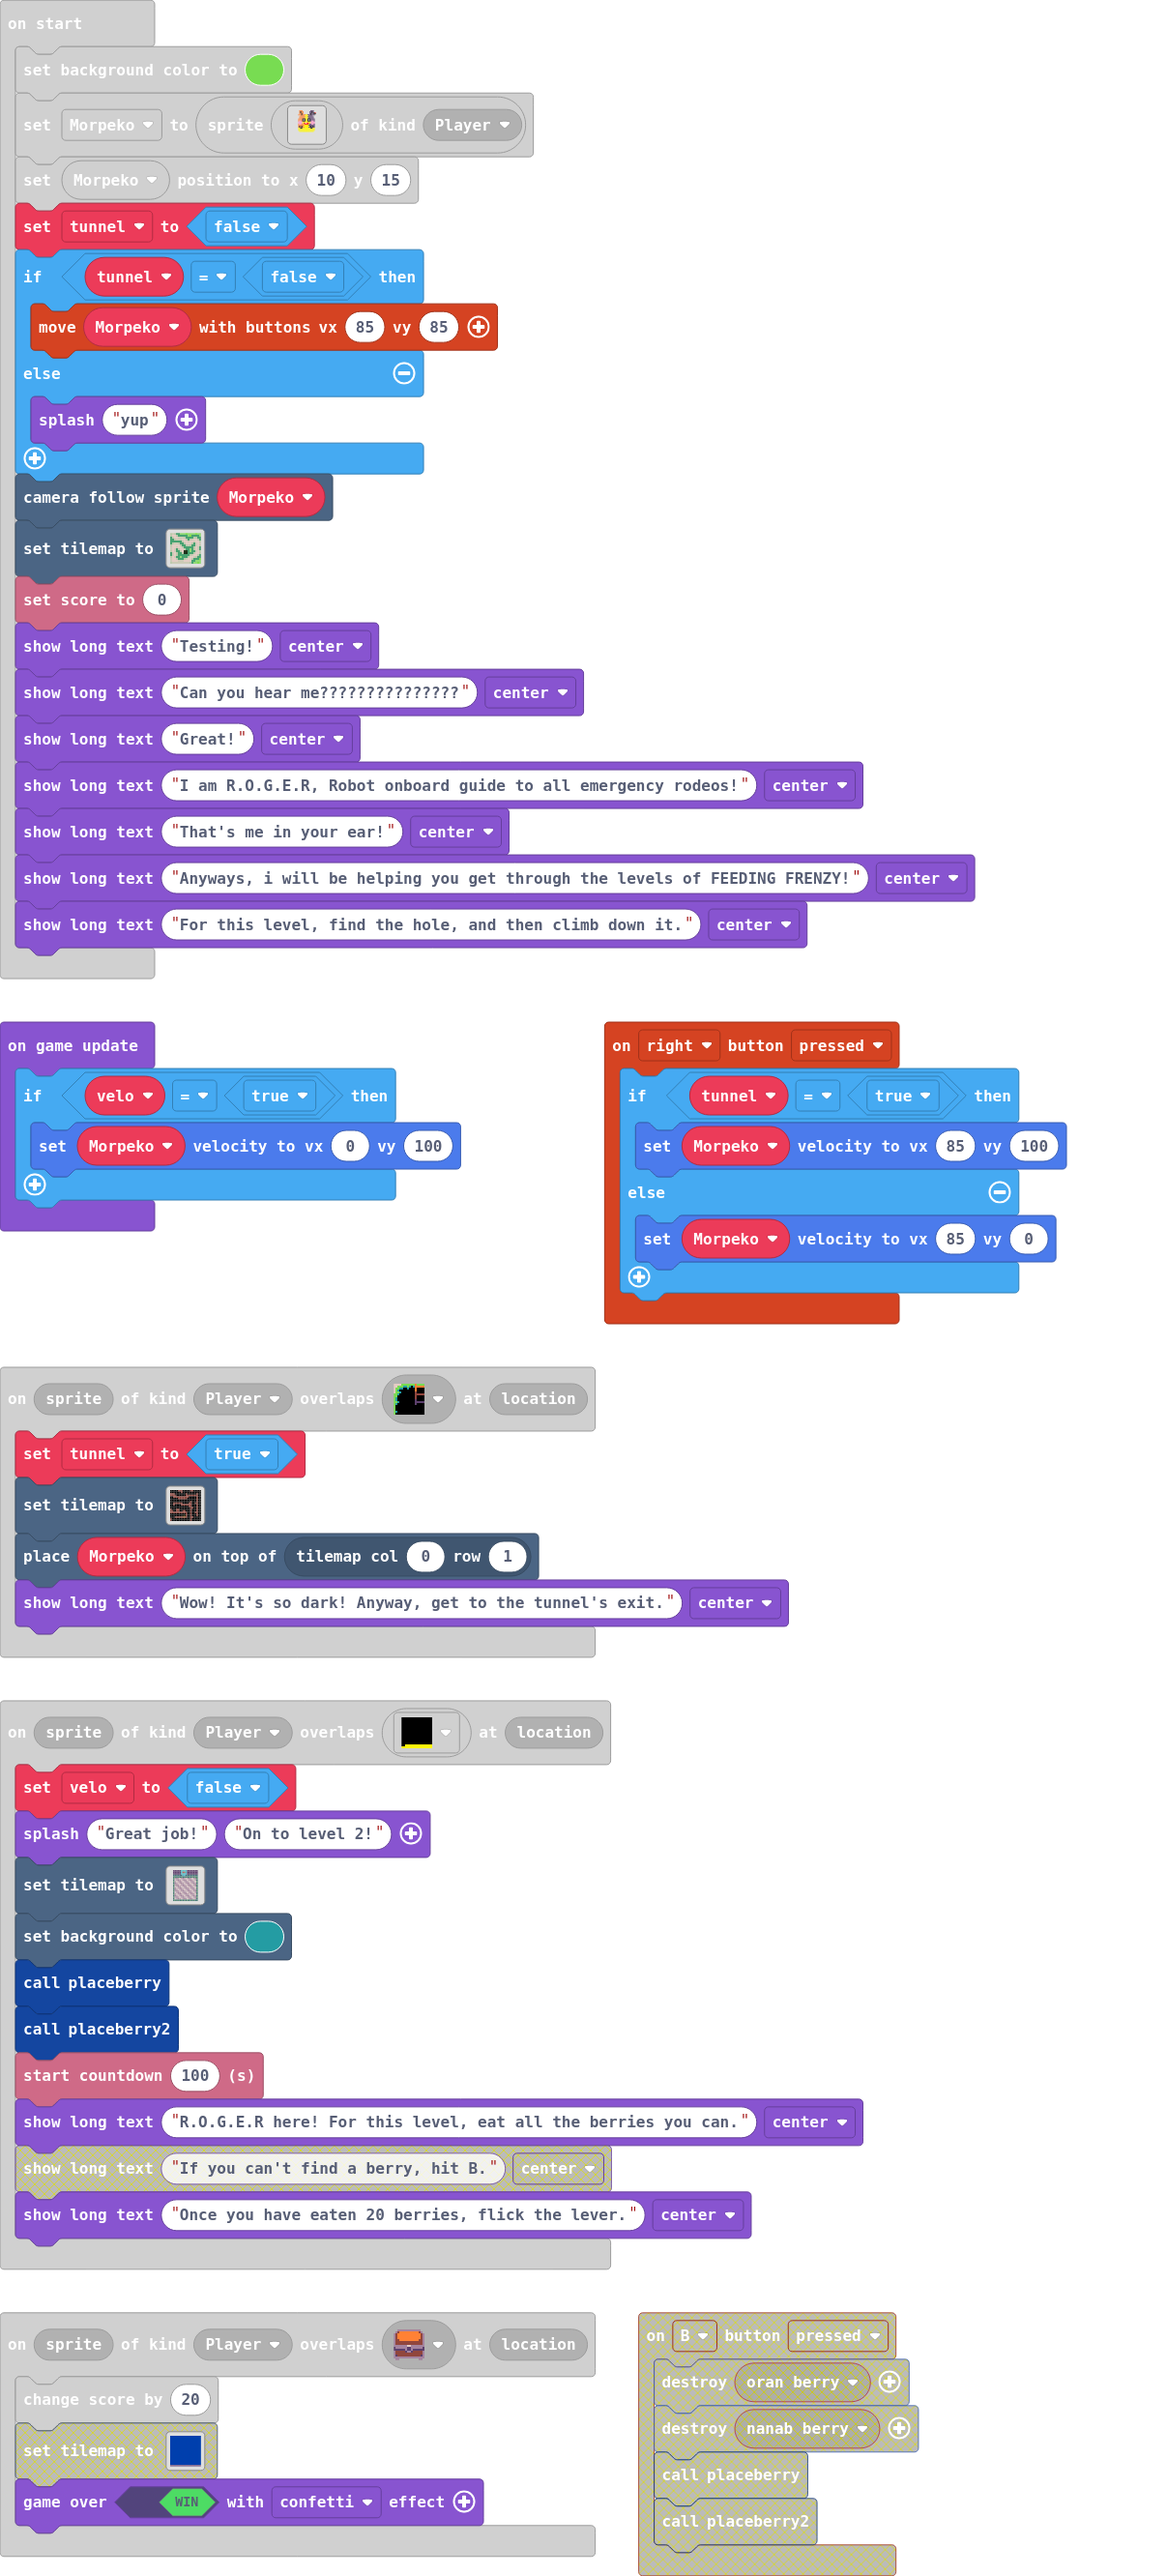
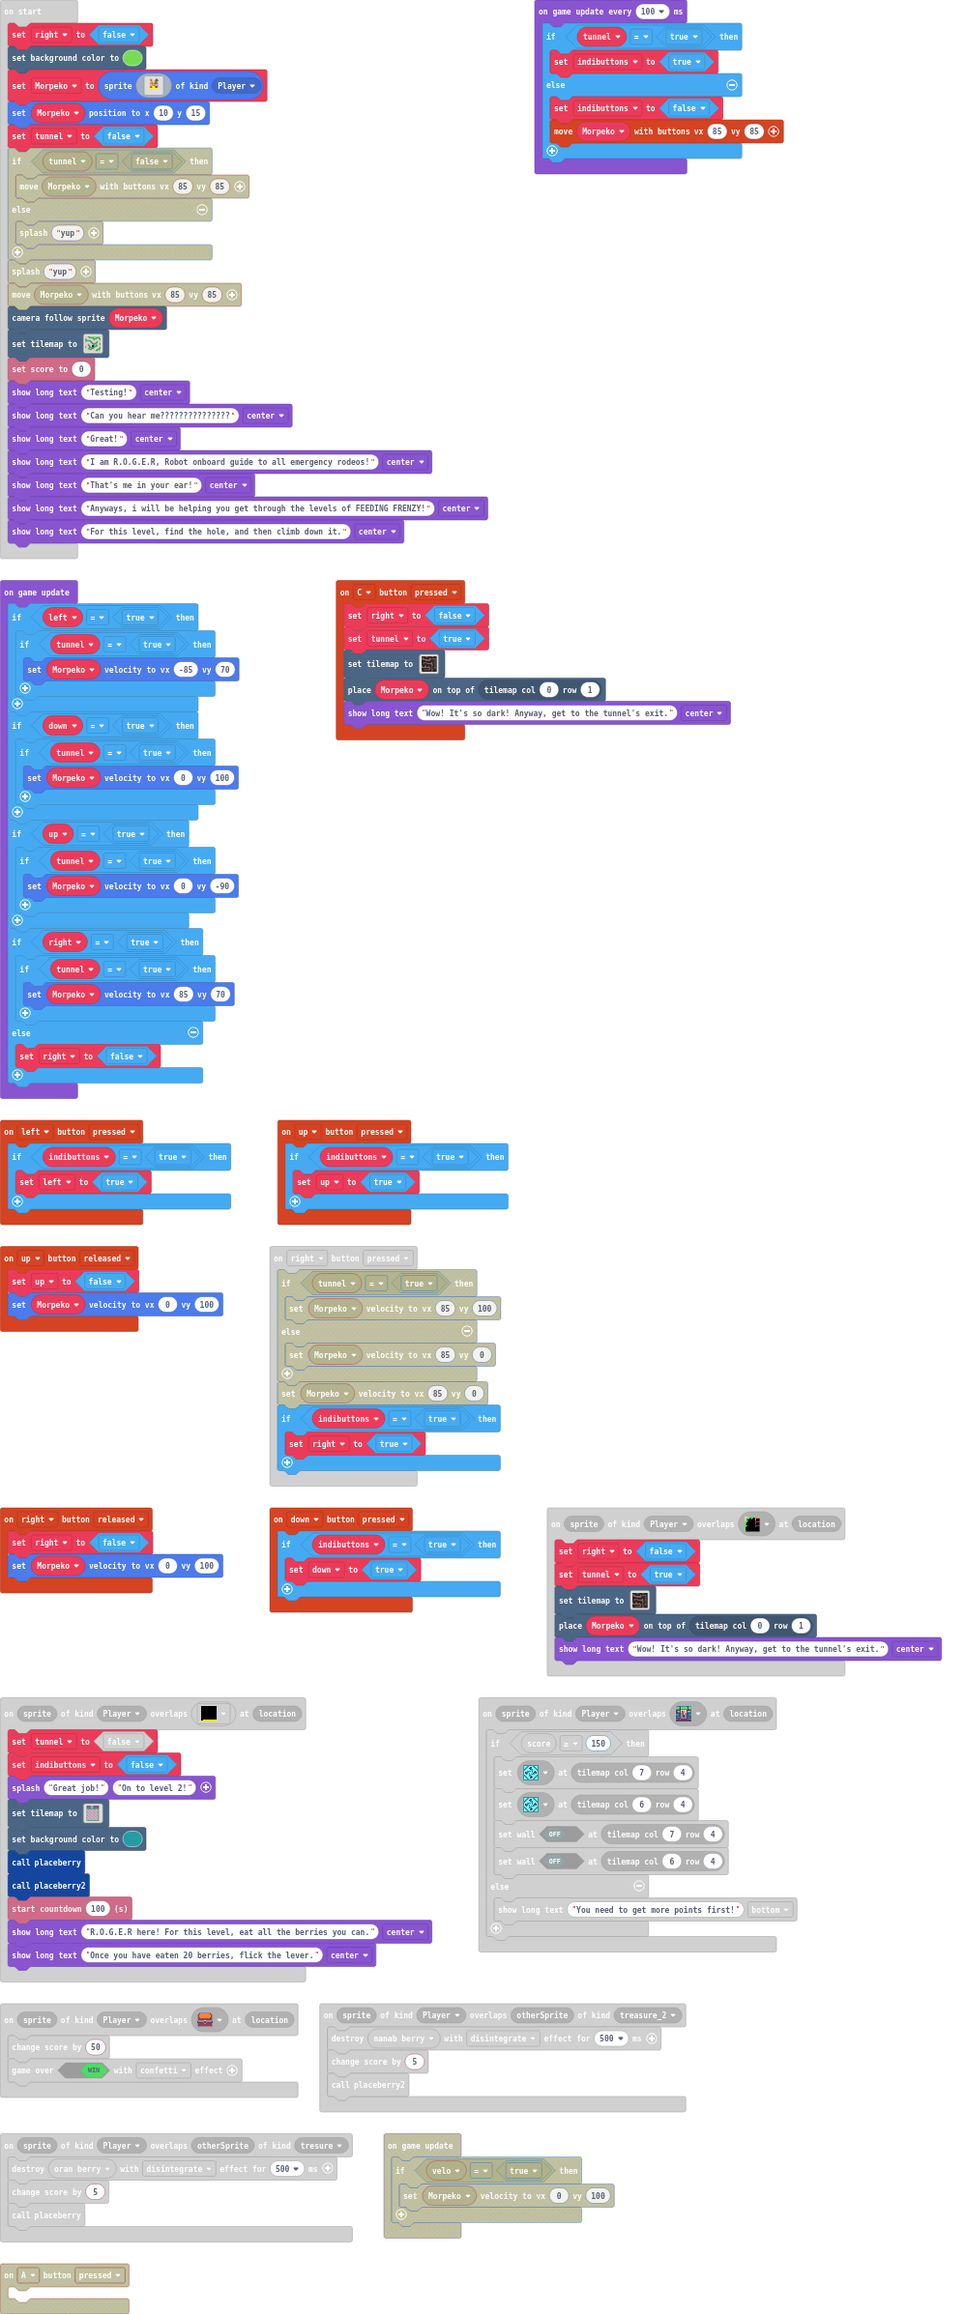
grav complete

diff --git a/tilemap.g.ts b/tilemap.g.ts
@@ -176,6 +176,63 @@ namespace myTiles {
 ..............2.....
 2............22.....
 `, [myTiles.transparency16,myTiles.tile3,myTiles.tile4,myTiles.tile6], TileScale.Sixteen);
+            case "level9":
+            case "level9":return tiles.createTilemap(hex`1000100000000000000000000000000000000000000000000000000000000000000000000000000000000000000000000000000000000000000000000000000000000000000000000000000000000000000000000000000000000000000000000000000000000000000000000000000000000000000000000000000000000000000000000000000000000000000000000000000000000000000000000000000000000000000000000000000000000000000000000000000000000000000000000000000000000000000000000000000000000000000000000000000000000000000000000000000000000000000000000000000000000000000000000000000000000000`, img`
+. . . . . . . . . . . . . . . . 
+. . . . . . . . . . . . . . . . 
+. . . . . . . . . . . . . . . . 
+. . . . . . . . . . . . . . . . 
+. . . . . . . . . . . . . . . . 
+. . . . . . . . . . . . . . . . 
+. . . . . . . . . . . . . . . . 
+. . . . . . . . . . . . . . . . 
+. . . . . . . . . . . . . . . . 
+. . . . . . . . . . . . . . . . 
+. . . . . . . . . . . . . . . . 
+. . . . . . . . . . . . . . . . 
+. . . . . . . . . . . . . . . . 
+. . . . . . . . . . . . . . . . 
+. . . . . . . . . . . . . . . . 
+. . . . . . . . . . . . . . . . 
+`, [myTiles.transparency16], TileScale.Sixteen);
+            case "level10":
+            case "level10":return tiles.createTilemap(hex`1000100000000000000000000000000000000000000000000000000000000000000000000000000000000000000000000000000000000000000000000000000000000000000000000000000000000000000000000000000000000000000000000000000000000000000000000000000000000000000000000000000000000000000000000000000000000000000000000000000000000000000000000000000000000000000000000000000000000000000000000000000000000000000000000000000000000000000000000000000000000000000000000000000000000000000000000000000000000000000000000000000000000000000000000000000000000000`, img`
+. . . . . . . . . . . . . . . . 
+. . . . . . . . . . . . . . . . 
+. . . . . . . . . . . . . . . . 
+. . . . . . . . . . . . . . . . 
+. . . . . . . . . . . . . . . . 
+. . . . . . . . . . . . . . . . 
+. . . . . . . . . . . . . . . . 
+. . . . . . . . . . . . . . . . 
+. . . . . . . . . . . . . . . . 
+. . . . . . . . . . . . . . . . 
+. . . . . . . . . . . . . . . . 
+. . . . . . . . . . . . . . . . 
+. . . . . . . . . . . . . . . . 
+. . . . . . . . . . . . . . . . 
+. . . . . . . . . . . . . . . . 
+. . . . . . . . . . . . . . . . 
+`, [myTiles.transparency16], TileScale.Sixteen);
+            case "level11":
+            case "level11":return tiles.createTilemap(hex`1000100000000000000000000000000000000000000000000000000000000000000000000000000000000000000000000000000000000000000000000000000000000000000000000000000000000000000000000000000000000000000000000000000000000000000000000000000000000000000000000000000000000000000000000000000000000000000000000000000000000000000000000000000000000000000000000000000000000000000000000000000000000000000000000000000000000000000000000000000000000000000000000000000000000000000000000000000000000000000000000000000000000000000000000000000000000000`, img`
+. . . . . . . . . . . . . . . . 
+. . . . . . . . . . . . . . . . 
+. . . . . . . . . . . . . . . . 
+. . . . . . . . . . . . . . . . 
+. . . . . . . . . . . . . . . . 
+. . . . . . . . . . . . . . . . 
+. . . . . . . . . . . . . . . . 
+. . . . . . . . . . . . . . . . 
+. . . . . . . . . . . . . . . . 
+. . . . . . . . . . . . . . . . 
+. . . . . . . . . . . . . . . . 
+. . . . . . . . . . . . . . . . 
+. . . . . . . . . . . . . . . . 
+. . . . . . . . . . . . . . . . 
+. . . . . . . . . . . . . . . . 
+. . . . . . . . . . . . . . . . 
+`, [myTiles.transparency16], TileScale.Sixteen);
             case "level8":
             case "level8":return tiles.createTilemap(hex`1400140003030303030101010303030303010103030303030303030303030301030303030303030303030303010101030303030303030103030303030301030301010101030303030303010101010101010103030303010101010101010101010303030303010303030303030301010101010103030303030301030303030303030303030303030303030303030103030303030303030303030303030301030303010303030301010101010103030303010103030101030303030103030303010101010101010303030103030303030303030303030303030101030303010303030303030303030303030303030101030301030301030303010103030303030303010303030103030101030301010303010103030301030303010303010101010101010101010103030103030101030303030303030303030303010303010303030103030303030303030303020601030301030303010303030303010101010104050103030101030303030301030303030303030303030303010303030303030103030303030303030303030301030303030303`, img`
 .....222.....22.....
@@ -195,12 +252,50 @@ namespace myTiles {
 22222222222..2..22..
 ..........2..2...2..
 ..........2..2...2..
-...22222222..22..2..
+...22222222..22.....
 2............2......
 2............2......
 `, [myTiles.transparency16,myTiles.tile3,myTiles.tile4,myTiles.tile12,myTiles.tile13,myTiles.tile14,myTiles.tile15], TileScale.Sixteen);
-            case "level9":
-            case "level9":return tiles.createTilemap(hex`1000100000000000000000000000000000000000000000000000000000000000000000000000000000000000000000000000000000000000000000000000000000000000000000000000000000000000000000000000000000000000000000000000000000000000000000000000000000000000000000000000000000000000000000000000000000000000000000000000000000000000000000000000000000000000000000000000000000000000000000000000000000000000000000000000000000000000000000000000000000000000000000000000000000000000000000000000000000000000000000000000000000000000000000000000000000000000`, img`
+            case "level12":
+            case "level12":return tiles.createTilemap(hex`1000100000000000000000000000000000000000000000000000000000000000000000000000000000000000000000000000000000000000000000000000000000000000000000000000000000000000000000000000000000000000000000000000000000000000000000000000000000000000000000000000000000000000000000000000000000000000000000000000000000000000000000000000000000000000000000000000000000000000000000000000000000000000000000000000000000000000000000000000000000000000000000000000000000000000000000000000000000000000000000000000000000000000000000000000000000000000`, img`
+. . . . . . . . . . . . . . . . 
+. . . . . . . . . . . . . . . . 
+. . . . . . . . . . . . . . . . 
+. . . . . . . . . . . . . . . . 
+. . . . . . . . . . . . . . . . 
+. . . . . . . . . . . . . . . . 
+. . . . . . . . . . . . . . . . 
+. . . . . . . . . . . . . . . . 
+. . . . . . . . . . . . . . . . 
+. . . . . . . . . . . . . . . . 
+. . . . . . . . . . . . . . . . 
+. . . . . . . . . . . . . . . . 
+. . . . . . . . . . . . . . . . 
+. . . . . . . . . . . . . . . . 
+. . . . . . . . . . . . . . . . 
+. . . . . . . . . . . . . . . . 
+`, [myTiles.transparency16], TileScale.Sixteen);
+            case "level13":
+            case "level13":return tiles.createTilemap(hex`1000100000000000000000000000000000000000000000000000000000000000000000000000000000000000000000000000000000000000000000000000000000000000000000000000000000000000000000000000000000000000000000000000000000000000000000000000000000000000000000000000000000000000000000000000000000000000000000000000000000000000000000000000000000000000000000000000000000000000000000000000000000000000000000000000000000000000000000000000000000000000000000000000000000000000000000000000000000000000000000000000000000000000000000000000000000000000`, img`
+. . . . . . . . . . . . . . . . 
+. . . . . . . . . . . . . . . . 
+. . . . . . . . . . . . . . . . 
+. . . . . . . . . . . . . . . . 
+. . . . . . . . . . . . . . . . 
+. . . . . . . . . . . . . . . . 
+. . . . . . . . . . . . . . . . 
+. . . . . . . . . . . . . . . . 
+. . . . . . . . . . . . . . . . 
+. . . . . . . . . . . . . . . . 
+. . . . . . . . . . . . . . . . 
+. . . . . . . . . . . . . . . . 
+. . . . . . . . . . . . . . . . 
+. . . . . . . . . . . . . . . . 
+. . . . . . . . . . . . . . . . 
+. . . . . . . . . . . . . . . . 
+`, [myTiles.transparency16], TileScale.Sixteen);
+            case "level14":
+            case "level14":return tiles.createTilemap(hex`1000100000000000000000000000000000000000000000000000000000000000000000000000000000000000000000000000000000000000000000000000000000000000000000000000000000000000000000000000000000000000000000000000000000000000000000000000000000000000000000000000000000000000000000000000000000000000000000000000000000000000000000000000000000000000000000000000000000000000000000000000000000000000000000000000000000000000000000000000000000000000000000000000000000000000000000000000000000000000000000000000000000000000000000000000000000000000`, img`
 . . . . . . . . . . . . . . . . 
 . . . . . . . . . . . . . . . . 
 . . . . . . . . . . . . . . . . 

diff --git a/main.ts b/main.ts
@@ -4,16 +4,19 @@ namespace SpriteKind {
     export const enviorment = SpriteKind.create()
 }
 scene.onOverlapTile(SpriteKind.Player, assets.tile`myTile0`, function (sprite, location) {
+    right = false
     tunnel = true
     tiles.setTilemap(tilemap`level8`)
     tiles.placeOnTile(Morpeko, tiles.getTileLocation(0, 1))
     game.showLongText("Wow! It's so dark! Anyway, get to the tunnel's exit.", DialogLayout.Center)
 })
-controller.A.onEvent(ControllerButtonEvent.Pressed, function () {
-	
+controller.up.onEvent(ControllerButtonEvent.Pressed, function () {
+    if (indibuttons == true) {
+        up = true
+    }
 })
 scene.onOverlapTile(SpriteKind.Player, sprites.dungeon.greenSwitchUp, function (sprite, location) {
-    if (info.score() >= 20) {
+    if (info.score() >= 150) {
         tiles.setTileAt(tiles.getTileLocation(7, 4), sprites.dungeon.collectibleInsignia)
         tiles.setTileAt(tiles.getTileLocation(6, 4), sprites.dungeon.collectibleInsignia)
         tiles.setWallAt(tiles.getTileLocation(7, 4), false)
@@ -24,7 +27,7 @@ scene.onOverlapTile(SpriteKind.Player, sprites.dungeon.greenSwitchUp, function (
 })
 sprites.onOverlap(SpriteKind.Player, SpriteKind.tresure, function (sprite, otherSprite) {
     oran_berry.destroy(effects.disintegrate, 500)
-    info.changeScoreBy(1)
+    info.changeScoreBy(5)
     placeberry()
 })
 function placeberry2 () {
@@ -78,18 +81,32 @@ function makebubbles () {
         `, SpriteKind.enviorment)
     tiles.placeOnTile(bubbles, tiles.getTileLocation(randint(0, 16), randint(0, 15)))
 }
+controller.left.onEvent(ControllerButtonEvent.Pressed, function () {
+    if (indibuttons == true) {
+        left = true
+    }
+})
+controller.right.onEvent(ControllerButtonEvent.Released, function () {
+    right = false
+    Morpeko.setVelocity(0, 100)
+})
 info.onCountdownEnd(function () {
     game.over(false, effects.melt)
 })
+controller.C.onEvent(ControllerButtonEvent.Pressed, function () {
+    right = false
+    tunnel = true
+    tiles.setTilemap(tilemap`level8`)
+    tiles.placeOnTile(Morpeko, tiles.getTileLocation(0, 1))
+    game.showLongText("Wow! It's so dark! Anyway, get to the tunnel's exit.", DialogLayout.Center)
+})
 scene.onOverlapTile(SpriteKind.Player, sprites.dungeon.chestClosed, function (sprite, location) {
-    info.changeScoreBy(20)
+    info.changeScoreBy(50)
     game.over(true, effects.confetti)
 })
 controller.right.onEvent(ControllerButtonEvent.Pressed, function () {
-    if (tunnel == true) {
-        Morpeko.setVelocity(85, 100)
-    } else {
-        Morpeko.setVelocity(85, 0)
+    if (indibuttons == true) {
+        right = true
     }
 })
 function placeberry () {
@@ -117,8 +134,18 @@ function placeberry () {
         `, SpriteKind.tresure)
     tiles.placeOnTile(oran_berry, tiles.getTileLocation(randint(1, 14), randint(8, 15)))
 }
+controller.up.onEvent(ControllerButtonEvent.Released, function () {
+    up = false
+    Morpeko.setVelocity(0, 100)
+})
+controller.down.onEvent(ControllerButtonEvent.Pressed, function () {
+    if (indibuttons == true) {
+        down = true
+    }
+})
 scene.onOverlapTile(SpriteKind.Player, assets.tile`myTile2`, function (sprite, location) {
-    velo = false
+    tunnel = false
+    indibuttons = false
     game.splash("Great job!", "On to level 2!")
     tiles.setTilemap(tilemap`level2`)
     scene.setBackgroundColor(6)
@@ -130,24 +157,24 @@ scene.onOverlapTile(SpriteKind.Player, assets.tile`myTile2`, function (sprite, l
 })
 sprites.onOverlap(SpriteKind.Player, SpriteKind.treasure_2, function (sprite, otherSprite) {
     nanab_berry.destroy(effects.disintegrate, 500)
-    info.changeScoreBy(1)
+    info.changeScoreBy(5)
     placeberry2()
 })
-let velo = false
+let down = false
+let left = false
 let bubbles: Sprite = null
 let nanab_berry: Sprite = null
 let oran_berry: Sprite = null
+let up = false
+let indibuttons = false
 let tunnel = false
 let Morpeko: Sprite = null
+let right = false
+right = false
 scene.setBackgroundColor(7)
 Morpeko = sprites.create(assets.image`Morpeko`, SpriteKind.Player)
 Morpeko.setPosition(10, 15)
 tunnel = false
-if (tunnel == false) {
-    controller.moveSprite(Morpeko, 85, 85)
-} else {
-    game.splash("yup")
-}
 scene.cameraFollowSprite(Morpeko)
 tiles.setTilemap(tilemap`level1`)
 info.setScore(0)
@@ -159,7 +186,34 @@ game.showLongText("That's me in your ear!", DialogLayout.Center)
 game.showLongText("Anyways, i will be helping you get through the levels of FEEDING FRENZY!", DialogLayout.Center)
 game.showLongText("For this level, find the hole, and then climb down it.", DialogLayout.Center)
 game.onUpdate(function () {
-    if (velo == true) {
-        Morpeko.setVelocity(0, 100)
+    if (left == true) {
+        if (tunnel == true) {
+            Morpeko.setVelocity(-85, 70)
+        }
+    }
+    if (down == true) {
+        if (tunnel == true) {
+            Morpeko.setVelocity(0, 100)
+        }
+    }
+    if (up == true) {
+        if (tunnel == true) {
+            Morpeko.setVelocity(0, -90)
+        }
+    }
+    if (right == true) {
+        if (tunnel == true) {
+            Morpeko.setVelocity(85, 70)
+        }
+    } else {
+        right = false
+    }
+})
+game.onUpdateInterval(100, function () {
+    if (tunnel == true) {
+        indibuttons = true
+    } else {
+        indibuttons = false
+        controller.moveSprite(Morpeko)
     }
 })
